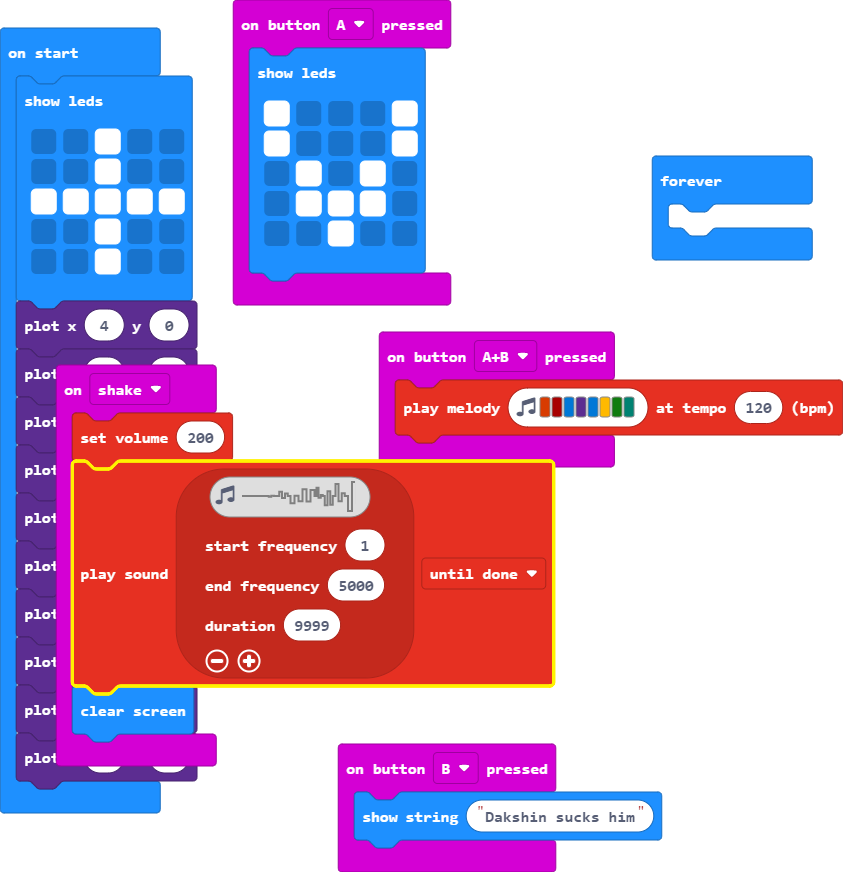
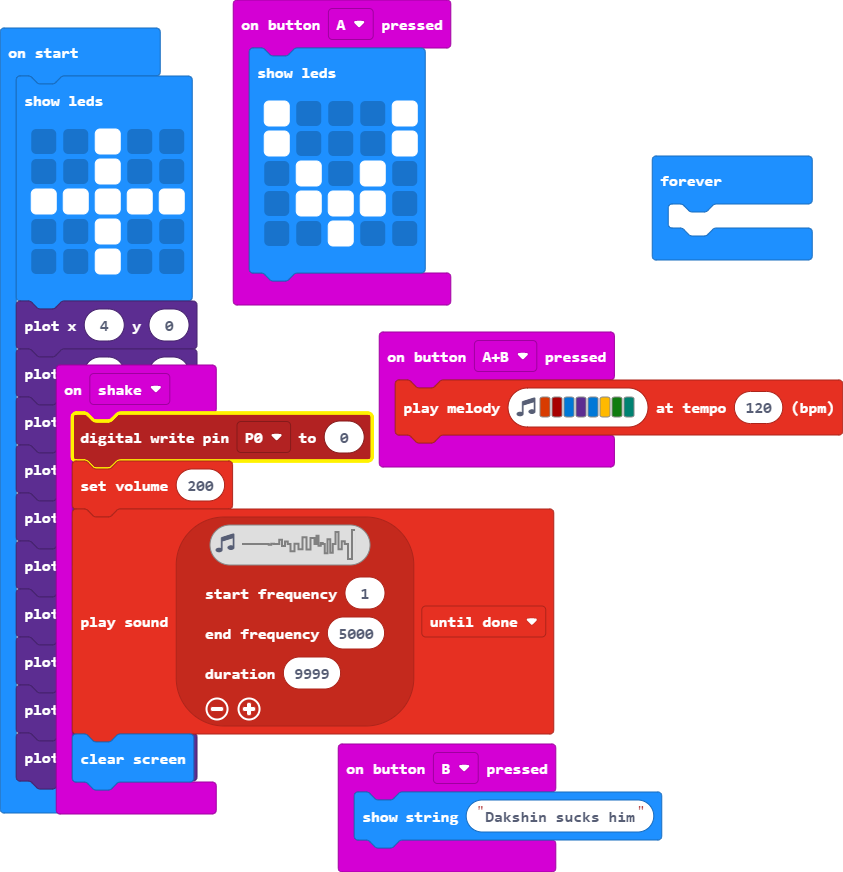
Update main.blocks, main.ts

Changed region(s): [[0.0617, 0.4644, 0.6785, 0.9599]]

diff --git a/main.ts b/main.ts
@@ -14,6 +14,7 @@ input.onButtonPressed(Button.B, function () {
     basic.showString("Dakshin sucks him")
 })
 input.onGesture(Gesture.Shake, function () {
+    pins.digitalWritePin(DigitalPin.P0, 0)
     music.setVolume(200)
     music.playSoundEffect(music.createSoundEffect(
     WaveShape.Noise,
